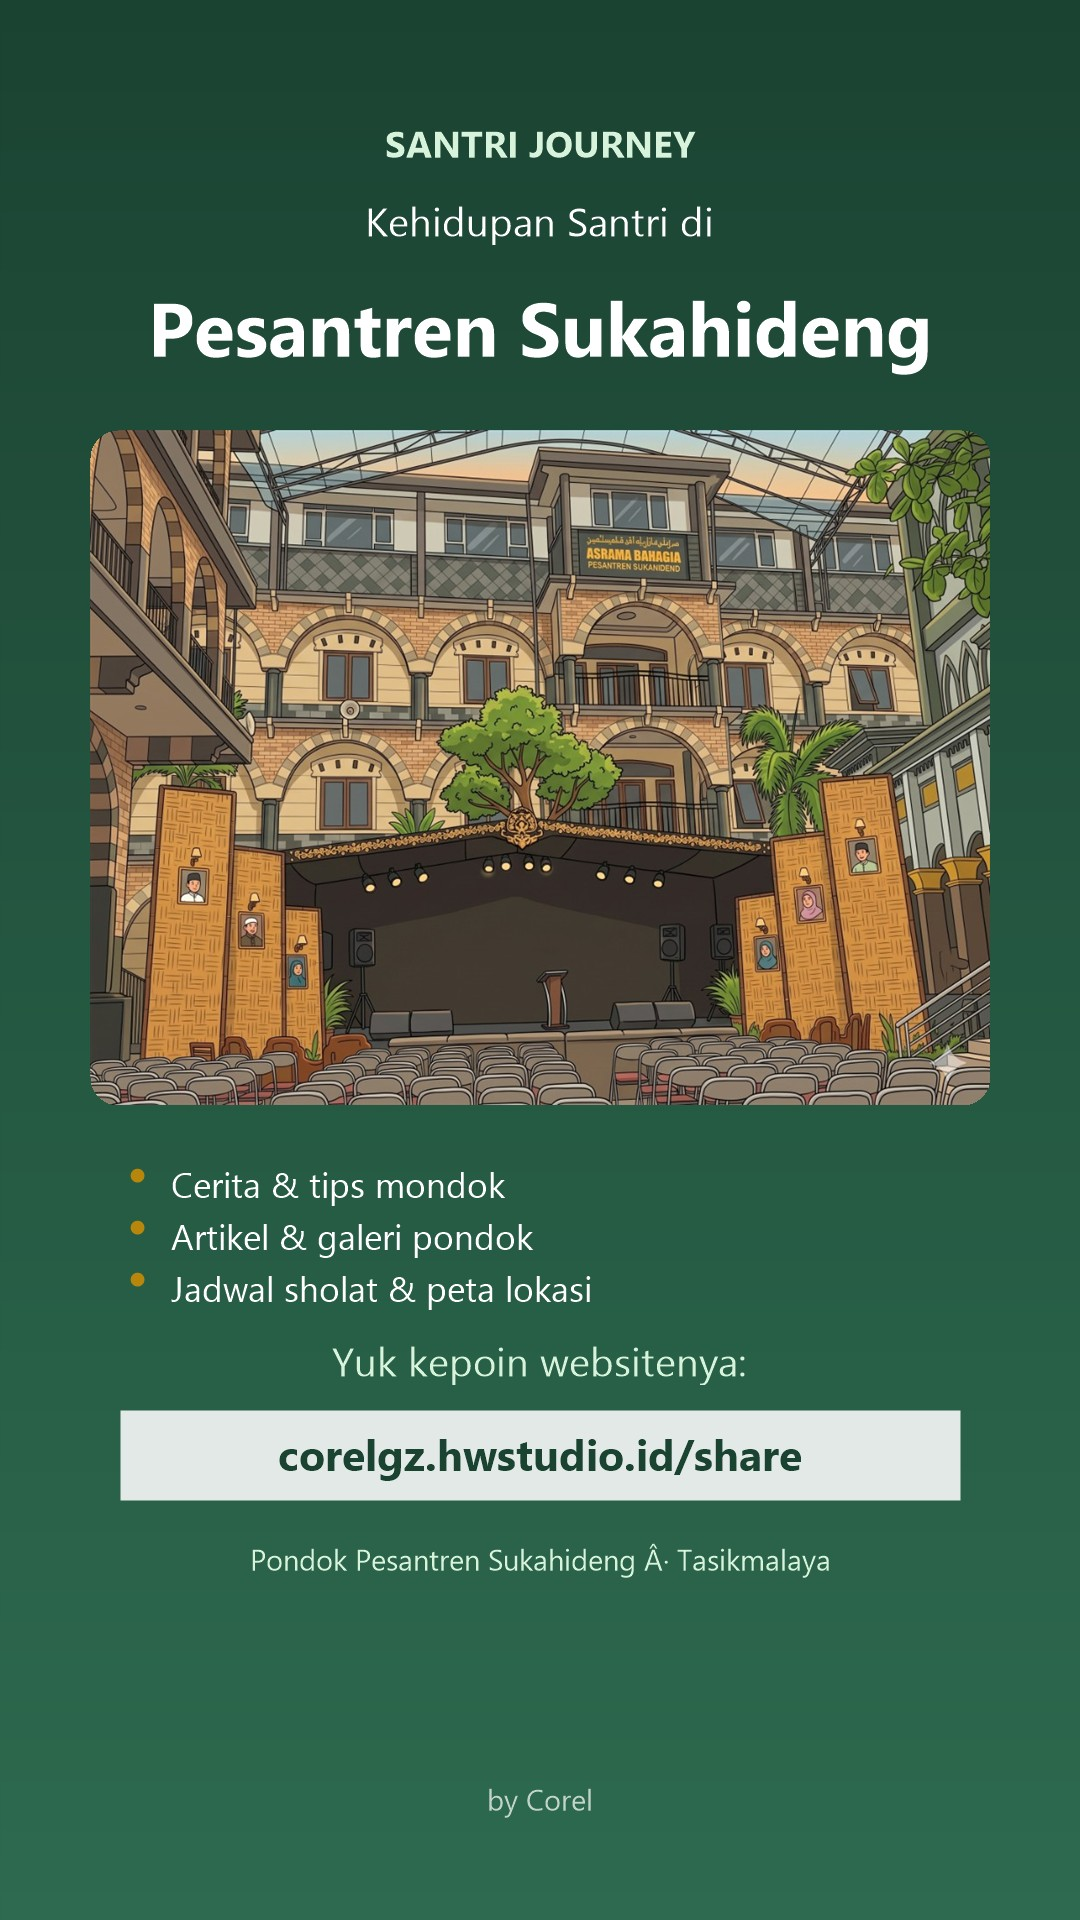
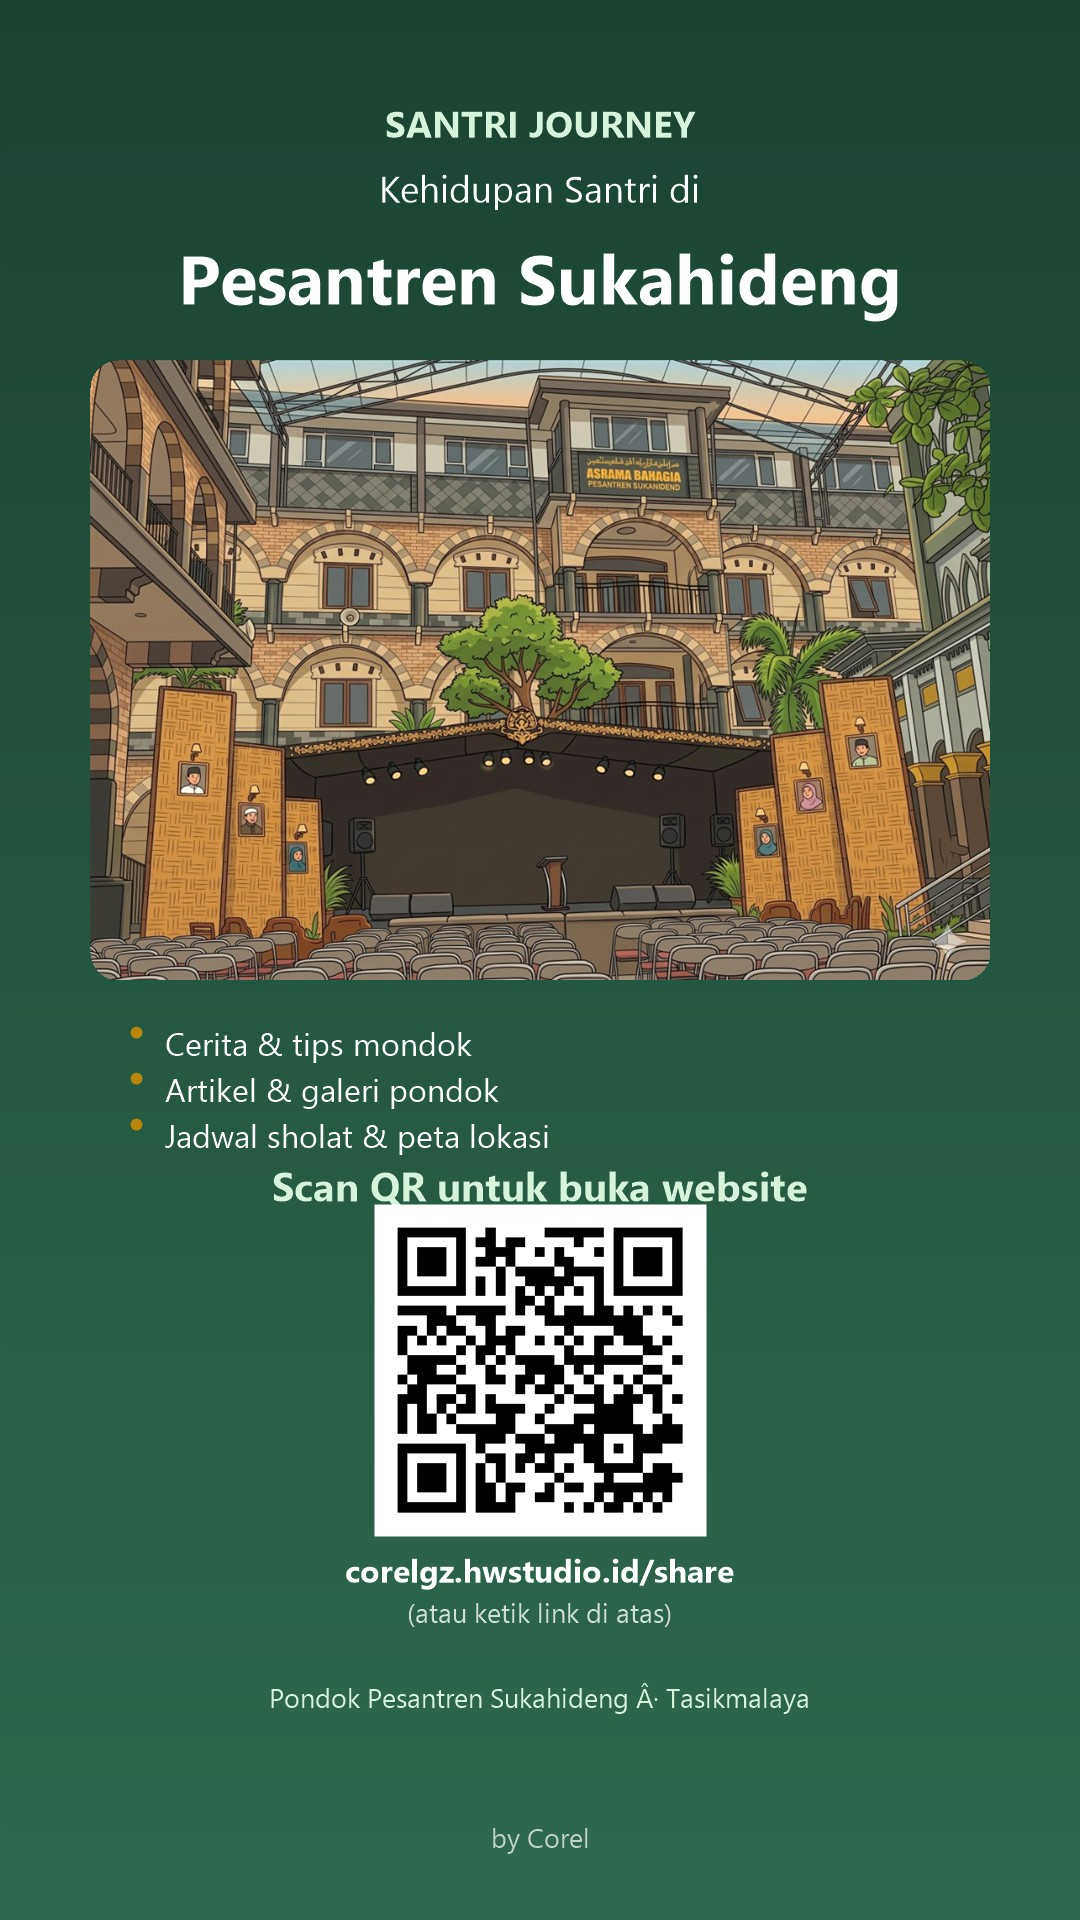
Add QR code to WhatsApp Status image for scannable link

diff --git a/src/components/ShareLanding.tsx b/src/components/ShareLanding.tsx
@@ -79,8 +79,9 @@ export default function ShareLanding() {
 
         <div className="share-status-box">
           <p>
-            Download gambar vertikal khusus Status WA — tinggal upload, gak perlu
-            screenshot.
+            Download gambar vertikal khusus Status WA. Temen bisa{" "}
+            <strong>scan QR code</strong> di gambar untuk langsung buka website
+            (link di gambar tidak bisa diklik — itu normal di Status WA).
           </p>
           <a
             href="/images/wa-status.jpg"
